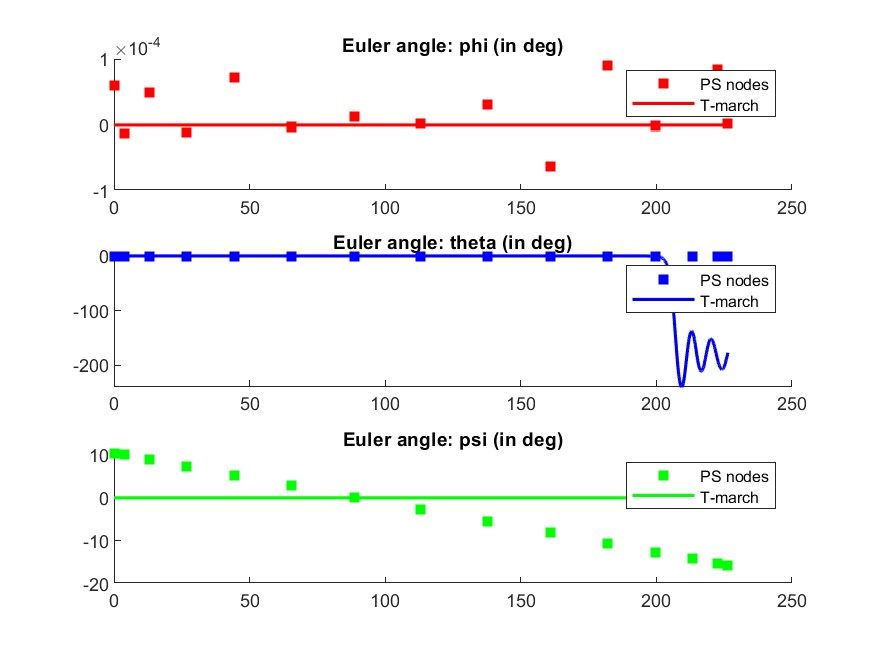
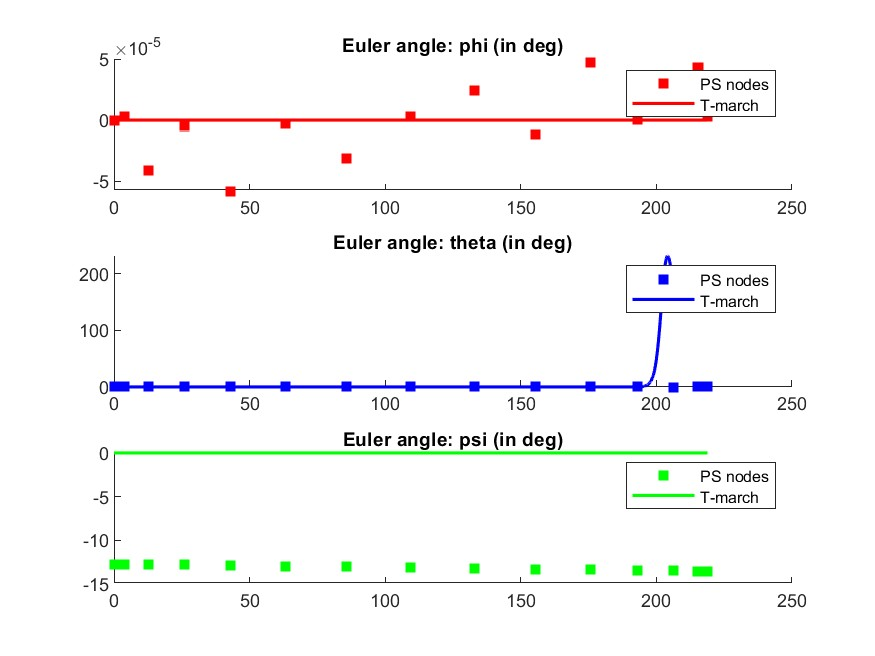
Gen commit

diff --git a/traj_optimization/Forces_n_Moments.m b/traj_optimization/Forces_n_Moments.m
@@ -26,7 +26,7 @@ function [Forces, Moments] = Forces_n_Moments(x, U)
     V_total = sqrt(u.^2 + v.^2 + w.^2); %total velocity
 
     aoa_spatial = acosd(w./V_total); %spatial angle of attack
-    aoa_spatial(find(aoa_spatial=='NaN'))=0; 
+    aoa_spatial(find(isnan(aoa_spatial)))=0; 
     %for i=1:N
         %if V_total(i)==0
          %   aoa_spatial(i)=0;
@@ -46,7 +46,7 @@ function [Forces, Moments] = Forces_n_Moments(x, U)
                 CD(i) = 0.5; % stable parachute
             else
                 CD(i) = -1.5e-07 * aoa_spatial(i)^4 -1.322e-06 * aoa_spatial(i)^2 + 0.614; %stable parachute configuration
-                CD(i) = -1.975e-07 * aoa_spatial(i)^4 - 3.037e-08 * aoa_spatial(i)^3 + 3.129e-04 * aoa_spatial(i)^2 + 2.918e-05 * aoa_spatial(i) + 0.614; %unstable parachute
+                %CD(i) = -1.975e-07 * aoa_spatial(i)^4 - 3.037e-08 * aoa_spatial(i)^3 + 3.129e-04 * aoa_spatial(i)^2 + 2.918e-05 * aoa_spatial(i) + 0.614; %unstable parachute
             end
         end
     end
@@ -58,6 +58,7 @@ function [Forces, Moments] = Forces_n_Moments(x, U)
     dynamic_pressure = 0.5 * density * V_total.^2;
     S0 = pi * canopy_radius_uninflated_R0^2;
     F_ad_canopy = [-CD .* dynamic_pressure .* (S0./V_total) .* u; -CD .* dynamic_pressure .* (S0./V_total) .* v; -CD .* dynamic_pressure .* (S0./V_total) .* w];
+    F_ad_canopy(find(isnan(F_ad_canopy)))=0;
 
     %Implementing Cz for now, in paper Cz is made to be zero(ie. the controllers only produces planar motion)
     

diff --git a/traj_optimization/main_trajectory_opt.m b/traj_optimization/main_trajectory_opt.m
@@ -13,7 +13,7 @@ y_pos_initial   = 0;
 z_pos_initial   = 1700;
 u_initial       = 0;
 v_initial       = 0;
-w_initial       = 6.5;
+w_initial       = 0;
 phi_initial     = 0;
 theta_initial   = 0;
 psi_initial     = 0;
@@ -35,7 +35,7 @@ y_pos_final     = 0;
 z_pos_final     = 0; 
 u_final         = 0; 
 v_final         = 0;
-w_final         = 6.5; 
+w_final         = 0; 
 phi_final       = 0;
 theta_final     = 0;
 psi_final       = 0;

diff --git a/traj_optimization/time_marching.m b/traj_optimization/time_marching.m
@@ -13,6 +13,7 @@ t0 = 0;
 t1 = legslb(n_sol);
 tt1 = ((tf-t0).*t1 + (tf+t0))./2;
 
+%t_span = 0:0.01:tf;
 t_span = 0:0.01:tf;
 U = [Cx Cy Cz];
 
